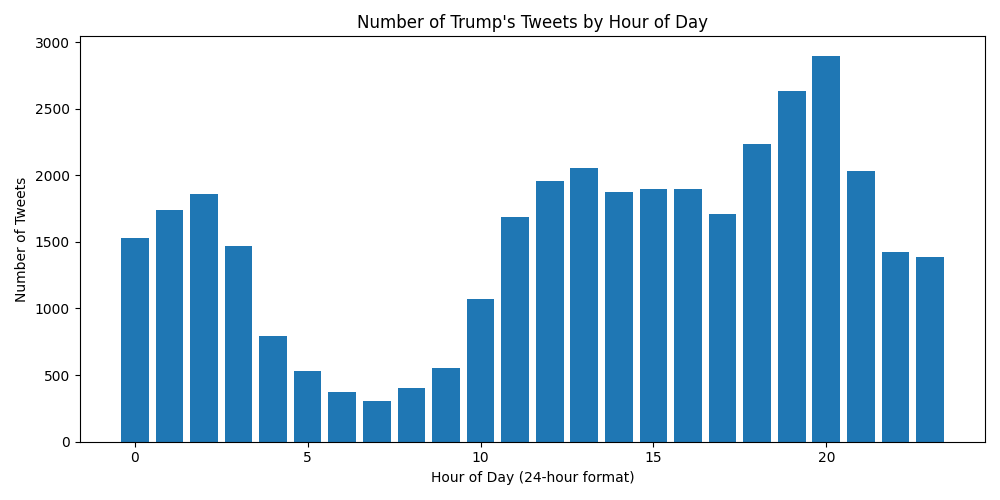
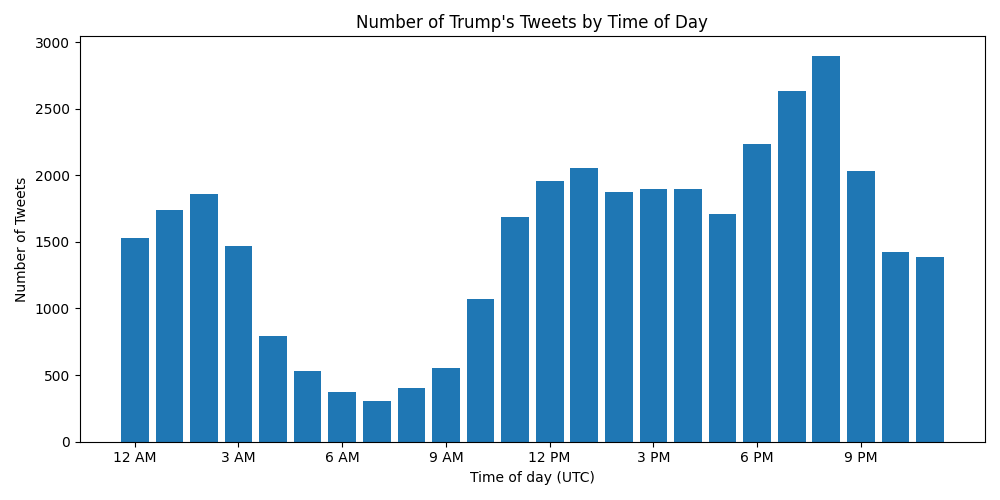
Improve hour plot labels

diff --git a/lab_tweets.py b/lab_tweets.py
@@ -129,11 +129,17 @@ counts_by_hour = [hour_counts[h] for h in hours]
 
 plt.figure(figsize=(10, 5))
 plt.bar(hours, counts_by_hour)
-plt.xlabel("Hour of Day (24-hour format)")
+
+# Make x-axis easier to read: label every 3 hours with AM/PM
+tick_hours = list(range(0, 24, 3))
+tick_labels = ["12 AM", "3 AM", "6 AM", "9 AM", "12 PM", "3 PM", "6 PM", "9 PM"]
+plt.xticks(tick_hours, tick_labels)
+
+plt.xlabel("Time of day (UTC)")
 plt.ylabel("Number of Tweets")
-plt.title("Number of Trump's Tweets by Hour of Day")
+plt.title("Number of Trump's Tweets by Time of Day")
 plt.tight_layout()
-plt.savefig(HOUR_PLOT)
+plt.savefig("tweets_by_hour.png")
 plt.close()
 
 print(f"Saved plot as {HOUR_PLOT}")
